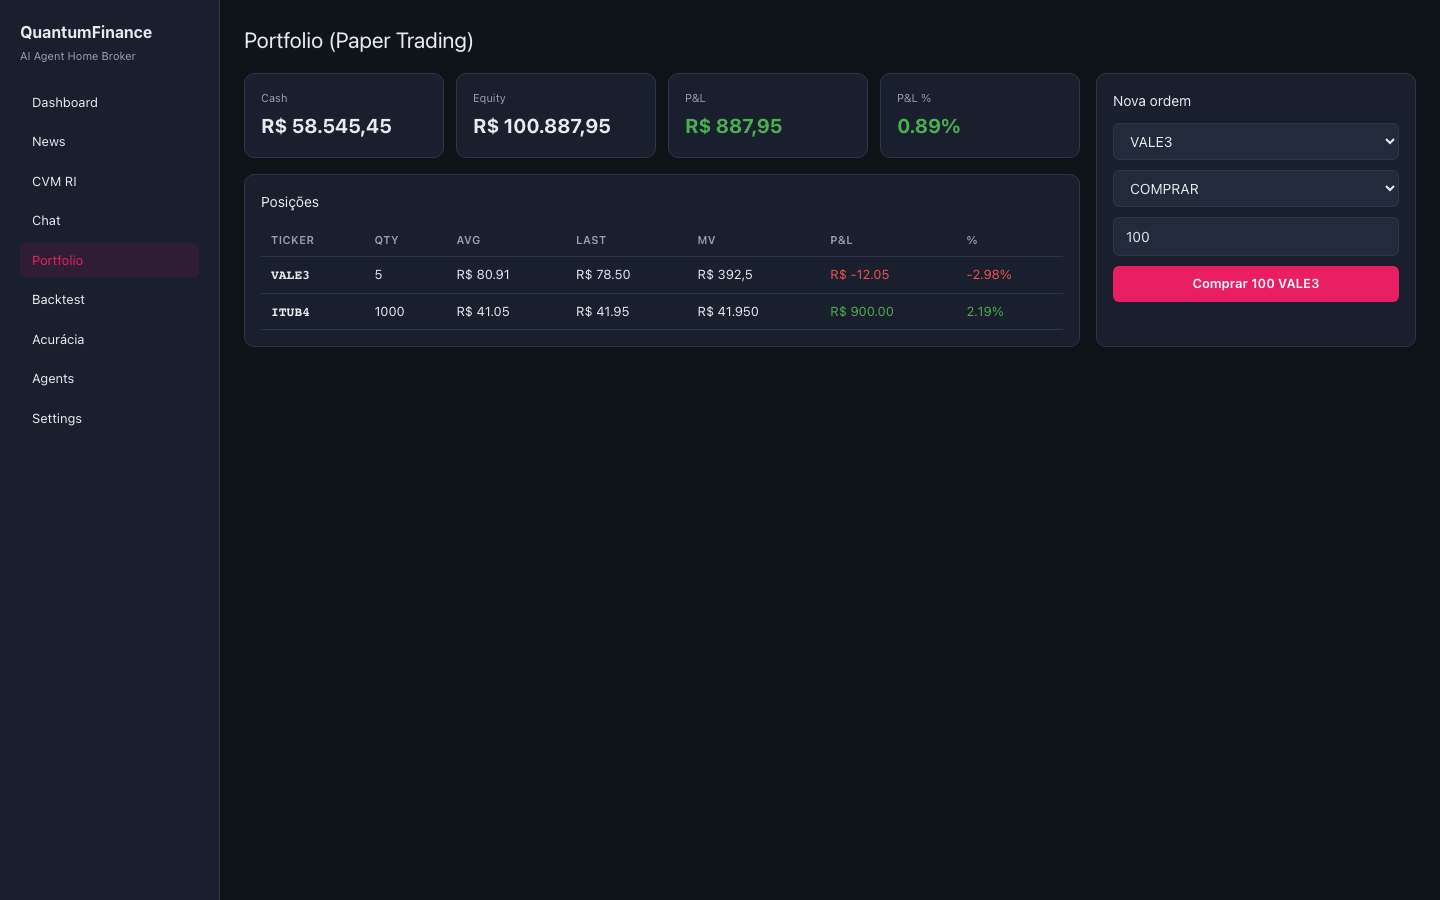
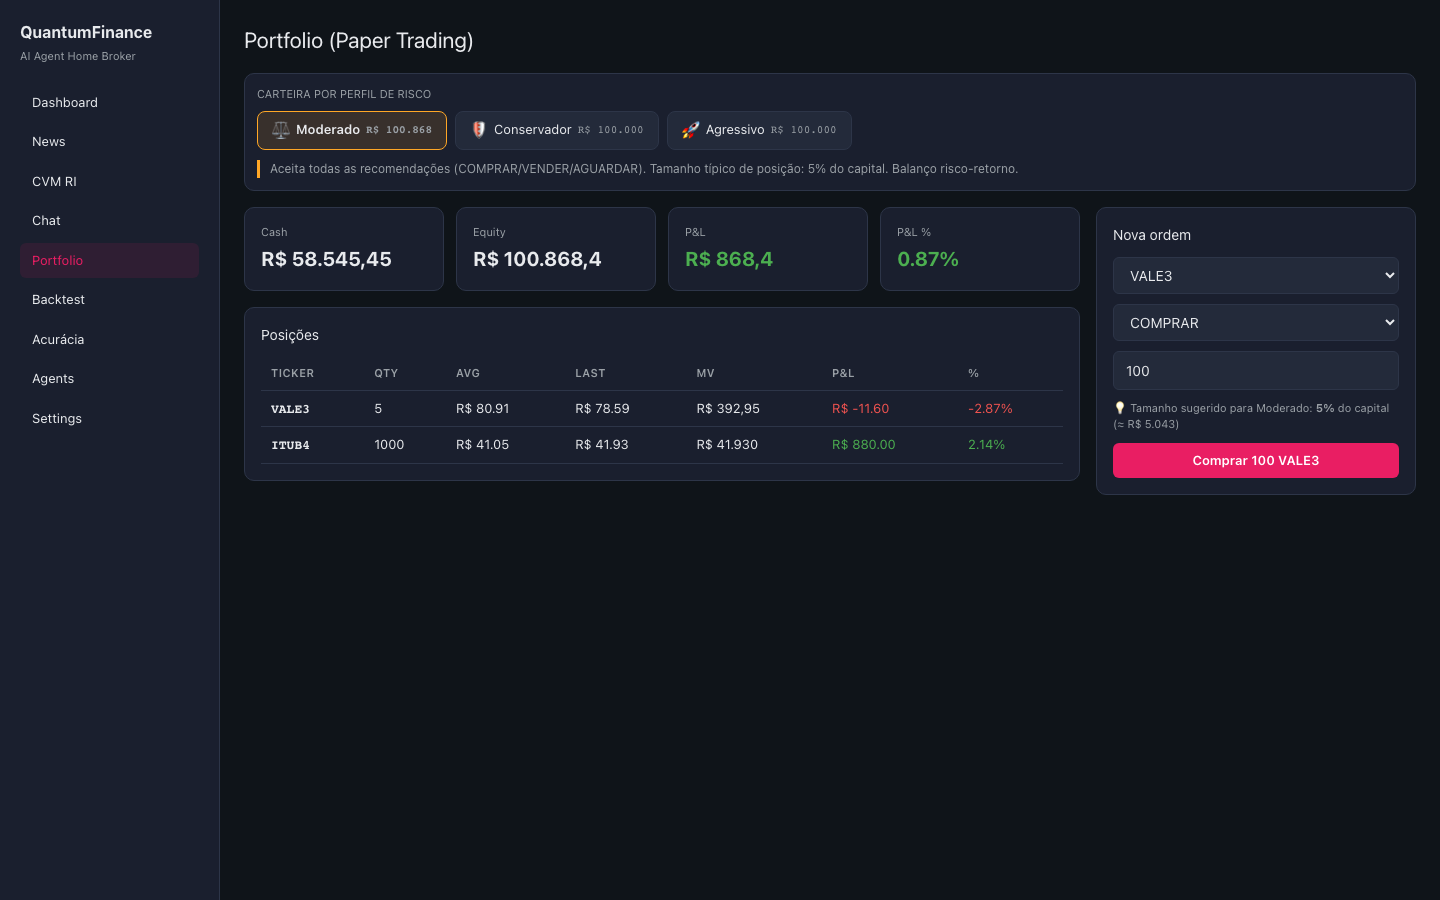
feat: carteiras por perfil de risco + co-autor + README com autores
Implementa o bônus "Comparador de carteiras por perfil de risco" do PDF:
- Novas colunas Portfolio.risk_profile e Portfolio.description (migração
  SQLite idempotente via ALTER TABLE).
- 3 portfolios seed: Conservador (preservação, 1%/posição),
  Moderado (balanço, 5%/posição), Agressivo (retorno, 15%/posição).
- Default existente é renomeado para Moderado preservando suas posições
  e ordens.
- Frontend mostra tabs com badge de cor por perfil + descrição + dica
  de tamanho de posição contextual ao perfil ativo.
- DB versionado refrescado com 3 carteiras.
- README atualizado: bônus marcado como ✅ done, screenshot Portfolio
  re-capturado mostrando as 3 tabs.

Adiciona Gustavo Gabriel Garcia Gomes do Nascimento (RM362350) como
co-autor do projeto na tabela de autores do README.

diff --git a/quantumfinance-app/frontend/src/pages/Portfolio.tsx b/quantumfinance-app/frontend/src/pages/Portfolio.tsx
@@ -1,7 +1,17 @@
-import { useState } from 'react'
+import { useEffect, useState } from 'react'
 import { useQuery, useMutation } from '@tanstack/react-query'
 import { api } from '../api'
 import type { Portfolio as PT } from '../api'
+
+const PROFILE_META: Record<string, { label: string; color: string; emoji: string; sugg_pct: number }> = {
+  conservative: { label: 'Conservador', color: '#42a5f5', emoji: '🛡️', sugg_pct: 0.01 },
+  moderate:     { label: 'Moderado',    color: '#ffa726', emoji: '⚖️', sugg_pct: 0.05 },
+  aggressive:   { label: 'Agressivo',   color: '#e91e63', emoji: '🚀', sugg_pct: 0.15 },
+}
+
+function profileMeta(rp: PT['risk_profile']) {
+  return PROFILE_META[rp ?? 'moderate'] ?? PROFILE_META.moderate
+}
 
 export default function Portfolio() {
   const portfolios = useQuery({
@@ -10,7 +20,16 @@ export default function Portfolio() {
     refetchInterval: 30_000,
   })
 
-  const p = portfolios.data?.[0]
+  const [selectedId, setSelectedId] = useState<number | null>(null)
+  useEffect(() => {
+    if (selectedId == null && portfolios.data && portfolios.data.length) {
+      // Default to "Moderado" if exists
+      const moderate = portfolios.data.find(p => p.risk_profile === 'moderate')
+      setSelectedId((moderate ?? portfolios.data[0]).id)
+    }
+  }, [portfolios.data, selectedId])
+
+  const p = portfolios.data?.find(x => x.id === selectedId) ?? portfolios.data?.[0]
   const [ticker, setTicker] = useState('VALE3')
   const [side, setSide] = useState<'BUY'|'SELL'>('BUY')
   const [qty, setQty] = useState(100)
@@ -23,6 +42,50 @@ export default function Portfolio() {
   return (
     <div>
       <h1 style={{ fontSize: 22, marginBottom: 16 }}>Portfolio (Paper Trading)</h1>
+
+      {/* Perfil selector — tabs */}
+      {portfolios.data && portfolios.data.length > 1 && (
+        <div className="card" style={{ marginBottom: 16, padding: 12 }}>
+          <div style={{ fontSize: 11, color: 'var(--text-muted)', marginBottom: 8 }}>
+            CARTEIRA POR PERFIL DE RISCO
+          </div>
+          <div style={{ display: 'flex', gap: 8, flexWrap: 'wrap' }}>
+            {portfolios.data.map(port => {
+              const meta = profileMeta(port.risk_profile)
+              const isActive = port.id === p?.id
+              return (
+                <button
+                  key={port.id}
+                  onClick={() => setSelectedId(port.id)}
+                  style={{
+                    padding: '8px 14px', borderRadius: 8, cursor: 'pointer',
+                    background: isActive ? `${meta.color}22` : 'var(--bg-elevated)',
+                    border: `1px solid ${isActive ? meta.color : 'var(--border)'}`,
+                    color: 'var(--text)', fontSize: 13, fontWeight: isActive ? 600 : 400,
+                    display: 'flex', alignItems: 'center', gap: 6,
+                  }}
+                >
+                  <span style={{ fontSize: 14 }}>{meta.emoji}</span>
+                  {meta.label}
+                  <span style={{
+                    fontSize: 11, color: 'var(--text-muted)', fontFamily: 'monospace',
+                  }}>R$ {port.equity.toLocaleString('pt-BR', { maximumFractionDigits: 0 })}</span>
+                </button>
+              )
+            })}
+          </div>
+          {p?.description && (
+            <p style={{
+              fontSize: 12, color: 'var(--text-muted)', marginTop: 10,
+              borderLeft: `3px solid ${profileMeta(p.risk_profile).color}`,
+              paddingLeft: 10, lineHeight: 1.5,
+            }}>
+              {p.description}
+            </p>
+          )}
+        </div>
+      )}
+
       {!p ? <p>Loading...</p> : (
         <div style={{ display: 'grid', gridTemplateColumns: '1fr 320px', gap: 16 }}>
           <div>
@@ -84,6 +147,10 @@ export default function Portfolio() {
                 <option value="SELL">VENDER</option>
               </select>
               <input type="number" min={1} value={qty} onChange={e => setQty(parseInt(e.target.value) || 0)} placeholder="Quantidade" />
+              <p style={{ fontSize: 11, color: 'var(--text-muted)', margin: 0 }}>
+                💡 Tamanho sugerido para {profileMeta(p.risk_profile).label}: <strong>{(profileMeta(p.risk_profile).sugg_pct * 100).toFixed(0)}%</strong> do capital
+                {' '}(≈ R$ {(p.equity * profileMeta(p.risk_profile).sugg_pct).toLocaleString('pt-BR', { maximumFractionDigits: 0 })})
+              </p>
               <button onClick={() => place.mutate()} disabled={place.isPending} className="btn-primary">
                 {place.isPending ? 'Enviando…' : `${side === 'BUY' ? 'Comprar' : 'Vender'} ${qty} ${ticker}`}
               </button>

diff --git a/quantumfinance-app/frontend/src/api.ts b/quantumfinance-app/frontend/src/api.ts
@@ -41,6 +41,8 @@ export type CvmFiling = {
 export type Portfolio = {
   id: number
   name: string
+  risk_profile: 'conservative' | 'moderate' | 'aggressive' | null
+  description: string | null
   cash: number
   equity: number
   initial: number

diff --git a/quantumfinance-app/backend/app/db/seed.py b/quantumfinance-app/backend/app/db/seed.py
@@ -1,5 +1,7 @@
-"""Seed inicial: 4 tickers, 3 agentes system, 1 crew, 1 portfolio."""
-from app.db.base import SessionLocal
+"""Seed inicial: 4 tickers, 4 agentes system, 2 crews, 3 portfolios por perfil de risco."""
+from sqlalchemy import text
+
+from app.db.base import SessionLocal, engine
 from app.db import models
 
 
@@ -75,6 +77,50 @@ DEFAULT_SETTINGS = {
 }
 
 
+SEED_PORTFOLIOS = [
+    {
+        "name": "Conservador",
+        "risk_profile": "conservative",
+        "cash_balance": 100000.0,
+        "initial_balance": 100000.0,
+        "description": (
+            "Aceita apenas AGUARDAR e COMPRAR de alta confluência. "
+            "Tamanho típico de posição: 1% do capital. Foco em preservação."
+        ),
+    },
+    {
+        "name": "Moderado",
+        "risk_profile": "moderate",
+        "cash_balance": 100000.0,
+        "initial_balance": 100000.0,
+        "description": (
+            "Aceita todas as recomendações (COMPRAR/VENDER/AGUARDAR). "
+            "Tamanho típico de posição: 5% do capital. Balanço risco-retorno."
+        ),
+    },
+    {
+        "name": "Agressivo",
+        "risk_profile": "aggressive",
+        "cash_balance": 100000.0,
+        "initial_balance": 100000.0,
+        "description": (
+            "Aceita todas as recomendações e usa alavancagem implícita. "
+            "Tamanho típico de posição: 15% do capital. Foco em retorno."
+        ),
+    },
+]
+
+
+def _ensure_portfolio_columns() -> None:
+    """SQLite-friendly migration: add risk_profile + description if missing."""
+    with engine.begin() as conn:
+        cols = {row[1] for row in conn.execute(text("PRAGMA table_info(portfolios)"))}
+        if "risk_profile" not in cols:
+            conn.execute(text("ALTER TABLE portfolios ADD COLUMN risk_profile VARCHAR(20)"))
+        if "description" not in cols:
+            conn.execute(text("ALTER TABLE portfolios ADD COLUMN description TEXT"))
+
+
 def seed_all() -> None:
     db = SessionLocal()
     try:
@@ -106,9 +152,28 @@ def seed_all() -> None:
                 db.add(models.Crew(name=c["name"], agent_ids=agent_ids, process_type="sequential"))
         db.commit()
 
-        # Portfolio default
-        if not db.query(models.Portfolio).first():
-            db.add(models.Portfolio(name="Default", cash_balance=100000.0, initial_balance=100000.0))
+        # Portfolios por perfil de risco — migração + seed idempotente
+        _ensure_portfolio_columns()
+        # Backfill: Default (legado) vira Moderado
+        default = db.query(models.Portfolio).filter_by(name="Default").first()
+        if default and not default.risk_profile:
+            default.name = "Moderado"
+            default.risk_profile = "moderate"
+            default.description = SEED_PORTFOLIOS[1]["description"]
+            db.commit()  # commit the rename so the lookup below sees it
+        # Seed novos perfis se ainda não existem
+        for p in SEED_PORTFOLIOS:
+            existing = db.query(models.Portfolio).filter(
+                (models.Portfolio.name == p["name"])
+                | (models.Portfolio.risk_profile == p["risk_profile"])
+            ).first()
+            if existing:
+                if not existing.risk_profile:
+                    existing.risk_profile = p["risk_profile"]
+                if not existing.description:
+                    existing.description = p["description"]
+            else:
+                db.add(models.Portfolio(**p))
         db.commit()
 
         # Settings

diff --git a/quantumfinance-app/backend/app/db/models.py b/quantumfinance-app/backend/app/db/models.py
@@ -121,6 +121,9 @@ class Portfolio(Base):
     name: Mapped[str] = mapped_column(String(120), unique=True)
     cash_balance: Mapped[float] = mapped_column(Float, default=100000.0)
     initial_balance: Mapped[float] = mapped_column(Float, default=100000.0)
+    # Risk profile: conservative / moderate / aggressive
+    risk_profile: Mapped[Optional[str]] = mapped_column(String(20), default=None)
+    description: Mapped[Optional[str]] = mapped_column(Text, default=None)
     created_at: Mapped[datetime] = mapped_column(DateTime, default=utcnow)
 
 

diff --git a/quantumfinance-app/backend/app/routes/portfolio.py b/quantumfinance-app/backend/app/routes/portfolio.py
@@ -53,6 +53,8 @@ def list_portfolios():
             total_pnl_pct = (total_pnl / p.initial_balance) * 100 if p.initial_balance else 0
             result.append({
                 "id": p.id, "name": p.name,
+                "risk_profile": p.risk_profile,
+                "description": p.description,
                 "cash": p.cash_balance, "equity": equity,
                 "initial": p.initial_balance,
                 "total_pnl": total_pnl, "total_pnl_pct": total_pnl_pct,

diff --git a/README.md b/README.md
@@ -155,7 +155,7 @@ Caminho rápido para o avaliador conferir cada requisito do enunciado oficial do
 |---|---|---|
 | Multi-agente (notícias + técnico + orquestrador) | ✅ | "Investment Crew" (3 agentes) e "Deep Research Crew" (4 ag, inclui CVM RI) — http://localhost:3000/agents |
 | Agente de explicabilidade | ✅ | Campo `reasoning` em cada Recommendation é o output em linguagem natural do strategist |
-| Comparador de carteiras | ⚠️ parcial | http://localhost:3000/portfolio (1 portfolio Default, BUY/SELL funcionais) |
+| Comparador de carteiras por perfil de risco | ✅ | http://localhost:3000/portfolio — 3 carteiras seed (Conservador / Moderado / Agressivo) com descrição e sugestão de tamanho de posição por perfil |
 | Memória de longo prazo (vector store) | ❌ não implementado | — |
 | Alertas Telegram/email | ❌ não implementado | — |
 
@@ -379,9 +379,11 @@ Para o avaliador validar todos os requisitos em ≤ 5 minutos:
 
 ---
 
-## 👤 Autor
+## 👥 Autores
 
-**Ricardo Frasson**
-Data Scientist & AI Researcher · MBA Data Science & AI · FIAP 2026
+| Aluno | RM / Email | Papel |
+|---|---|---|
+| **Ricardo Frasson** | `[email redacted]` | Data Scientist & AI Researcher · MBA Data Science & AI · FIAP 2026 |
+| **Gustavo Gabriel Garcia Gomes do Nascimento** | RM362350 · `[email redacted]` | Aluno e Data Scientist · MBA Data Science & AI · FIAP 2026 |
 
 Professor: **Felipe Gustavo Silva Teodoro**